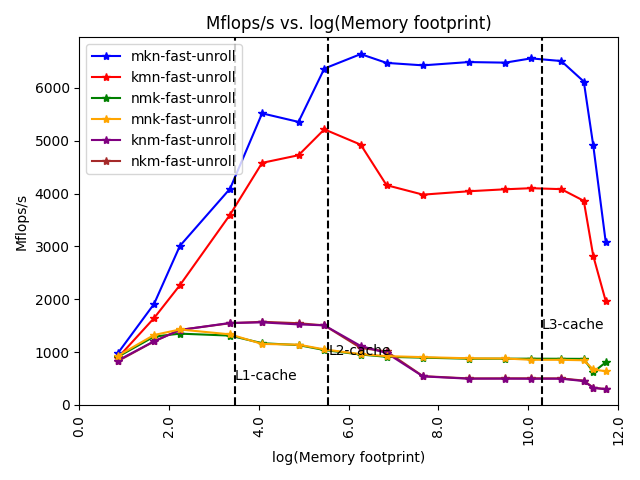
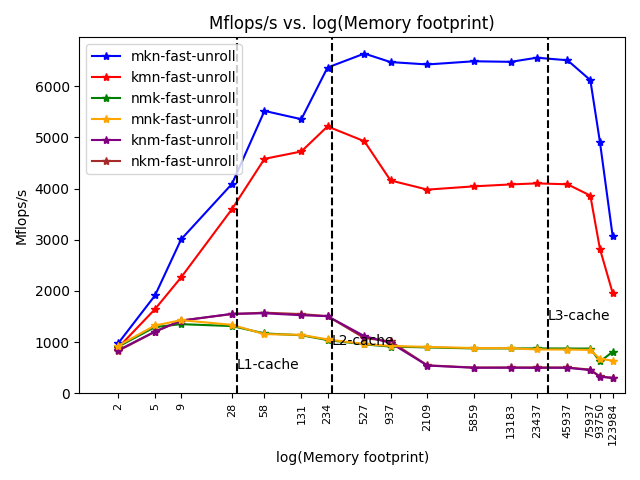
fixed scale of axis

diff --git a/assignment1/run_data/plot_block.py b/assignment1/run_data/plot_block.py
@@ -17,18 +17,19 @@ data.columns = [
 
 fig, ax = plt.subplots()
 
-ax.plot(np.log(data["blocksize"]), data["Mflop/s"], marker="*", label=f"Mflops/s")
+ax.plot(np.log2(data["blocksize"]), data["Mflop/s"], marker="*", label=f"Mflops/s")
 
-ax.axvline(x=np.log(32), ymin=0, ymax=1, color = 'black', linestyle="--")
-ax.text(x=np.log(32), y=max(data["Mflop/s"]) * (1/3), s="L1-cache", c="black")
+ax.axvline(x=np.log2(32), ymin=0, ymax=1, color = 'black', linestyle="--")
+ax.text(x=np.log2(32), y=max(data["Mflop/s"]) * (1/3), s="L1-cache", c="black")
 
-ax.axvline(x=np.log(256), ymin=0, ymax=1, color = 'black', linestyle="--")
-ax.text(x=np.log(256), y=max(data["Mflop/s"]) * (2/3), s="L2-cache")  
+ax.axvline(x=np.log2(256), ymin=0, ymax=1, color = 'black', linestyle="--")
+ax.text(x=np.log2(256), y=max(data["Mflop/s"]) * (2/3), s="L2-cache")  
 
 ax.set_xlabel("log(blocksize)")
 ax.set_ylabel("Mflops/s")
 ax.set_ylim(0, None)
-ax.set_xticklabels(ax.get_xticks(), rotation = 90)
+ax.set_xticklabels(data["blocksize"], rotation = 90)
+ax.set_xticks(np.log2(data["blocksize"]))
 ax.set_title("Mflops/s vs. log(blocksize)")
 
 ax.legend()

diff --git a/assignment1/run_data/plot_memory.py b/assignment1/run_data/plot_memory.py
@@ -77,7 +77,10 @@ for opt in opt_options:
     ax.set_ylabel("Mflops/s")
     ax.set_xlim(0, 12)
     ax.set_ylim(0, None)
-    ax.set_xticklabels(ax.get_xticks(), rotation = 90)
+    x_dat = plt.gca().get_lines()[0].get_xdata()
+    ax.set_xticklabels([int(dat) for dat in np.exp(x_dat)], rotation = 90, fontsize="8")
+    ax.set_xticks(x_dat)
+    
 
     handles, labels = plt.gca().get_legend_handles_labels()
 
